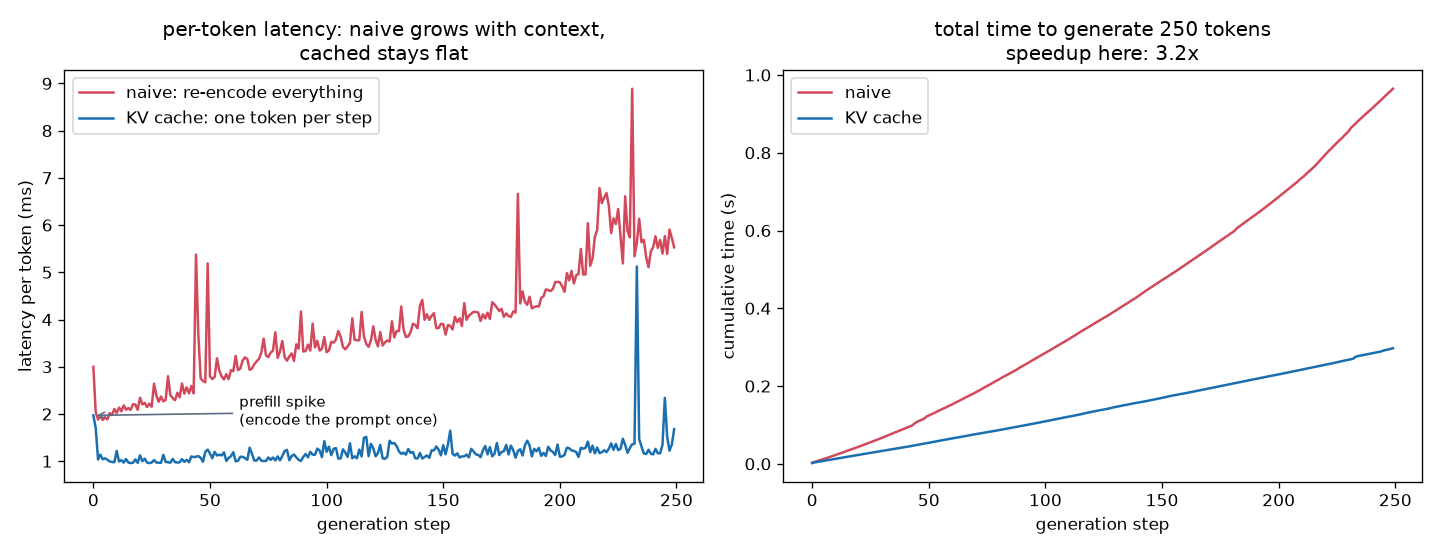
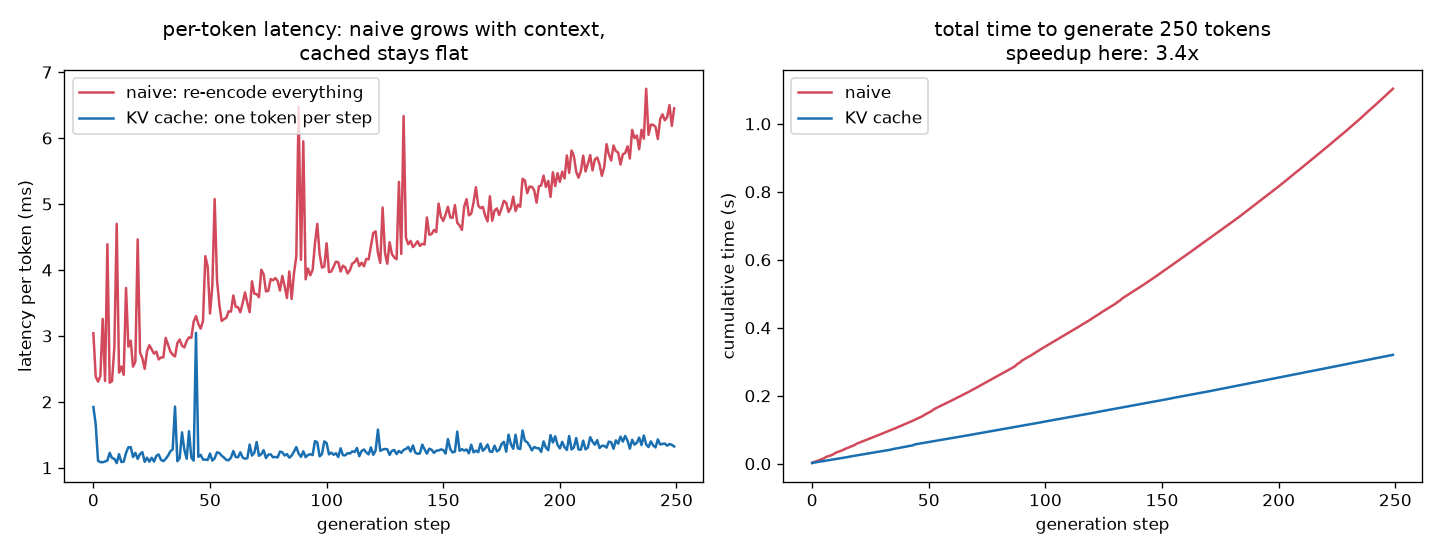
Regenerate KV-cache benchmark figure; adjust its caption
Claude-Session: https://claude.ai/code/session_01P1jvH1MBrHrzrYrY816nzM

diff --git a/part-8-kv-cache.md b/part-8-kv-cache.md
@@ -160,10 +160,11 @@ while cached stays flat), and **the bill** (§8.4's table computed live).
 
 ![kv-cache timing](diagrams/kv-cache-timing.png)
 
-Left: per-token latency — naive climbs linearly while cached stays flat;
-the late blue spike is the cache hitting `T_max` and falling back to a
-full re-encode (exactly the punt exercise 8.4 asks you to fix). Right:
-cumulative time — the quadratic-vs-linear separation.
+Left: per-token latency — naive climbs linearly while cached stays flat.
+(If your run shows a tall blue spike near the end, that is the cache
+hitting `T_max` and falling back to a full re-encode — exactly the punt
+exercise 8.4 asks you to fix; the plot annotates it when it stands out.)
+Right: cumulative time — the quadratic-vs-linear separation.
 
 ## 8.6 Exercises
 
